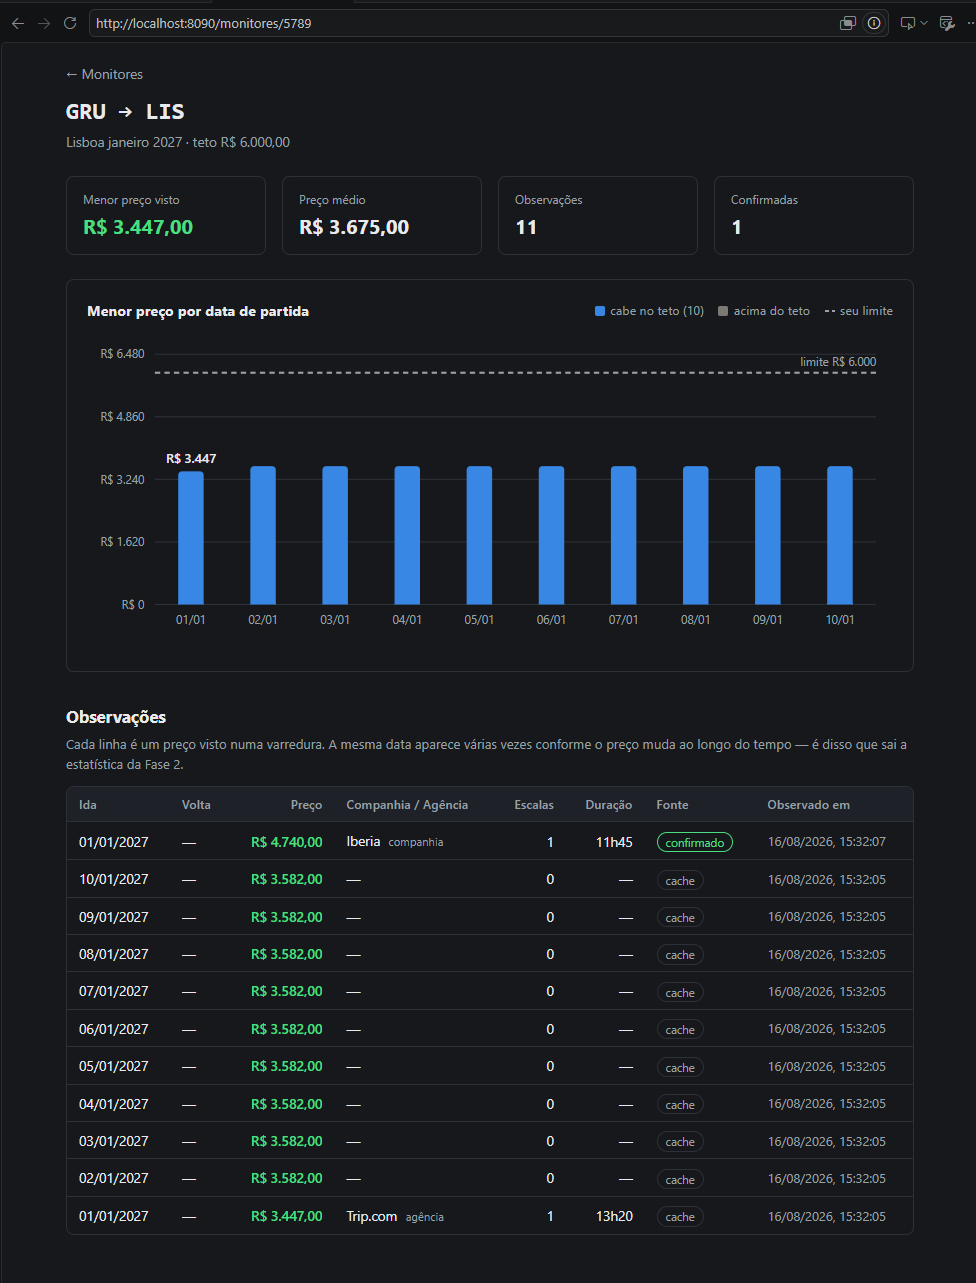
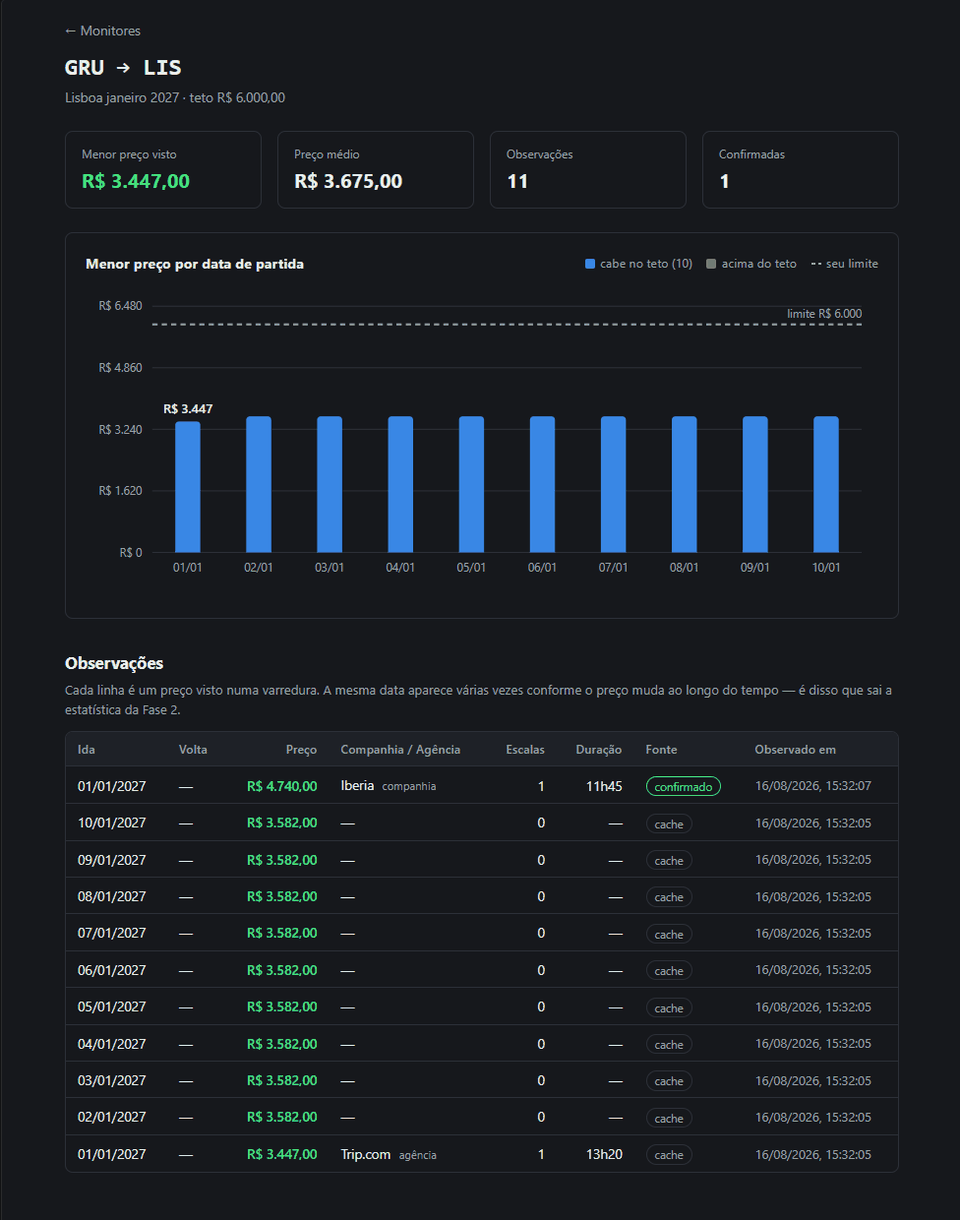
images

diff --git a/README.md b/README.md
@@ -39,17 +39,37 @@ que só aparecem quando o sistema precisa funcionar sozinho, sem ninguém olhand
 
 ## 📸 Demonstração
 
-Um monitor é uma rota, uma janela de datas e um preço-teto:
+Um monitor é uma rota, uma janela de datas e um preço-teto. É tudo o que o sistema precisa para
+começar a vigiar sozinho:
 
-```
-GRU → LIS
-Ida:    entre 10/03/2027 e 20/03/2027
-Volta:  permanência de 10 a 15 dias
-Preço máximo: R$ 3.200
-Escalas máximas: 1
-```
+![Formulário de cadastro de monitor: apelido "Lisboa janeiro 2027", origem GRU, destino LIS, janela de ida de 01/01/2027 a 10/01/2027, janela de volta de 20/01/2027 a 30/01/2027, preço máximo de R$ 3.000, escalas "qualquer", 1 passageiro e intervalo de 60 minutos entre buscas](images/new-monitor.png)
 
-Quando um voo cabe nesses critérios, chega uma mensagem — no WhatsApp, no e-mail, ou no log:
+> **Cadastro de monitor** — a volta é opcional e aceita duas formas: janela de datas *ou*
+> permanência em dias. O intervalo entre buscas tem **mínimo de 10 minutos**, e o porquê fica
+> escrito ao lado do campo: as fontes são gratuitas e a camada 1 devolve preço em cache, então
+> varrer mais rápido só gasta cota para reler o mesmo dado.
+
+Cada monitor mostra o que fez na última varredura — inclusive quando **não** achou nada:
+
+![Cartão do monitor GRU → LIS após uma busca sob demanda, exibindo "0 observações, 0 abaixo do teto" e "Sem alerta — nenhuma oferta abaixo do teto que se sustentasse", seguido dos quatro motivos do descarte](images/manual-search.png)
+
+> **Busca sob demanda e diagnóstico** — este é o princípio de *dizer o que não se sabe* na tela.
+> Em vez de uma lista vazia sem explicação, o sistema enumera os motivos: a fonte respondeu com o
+> código de cidade `SAO` em vez do aeroporto `GRU`, 28 ofertas caíram fora dos critérios, e nenhuma
+> das que sobraram entrou na janela pedida. Silêncio com motivo é diferente de silêncio por falha.
+
+Quando há histórico suficiente, ele vira gráfico e tabela:
+
+![Tela de histórico do monitor GRU → LIS: cartões de menor preço (R$ 3.447), preço médio (R$ 3.675), 11 observações e 1 confirmada; gráfico de barras do menor preço por data de partida com a linha tracejada do teto; e tabela de observações com data, preço, companhia ou agência, escalas, duração, fonte e horário](images/history.png)
+
+> **Histórico do monitor** — o gráfico separa o que **cabe no teto** do que está acima dele, com a
+> linha tracejada do seu limite. Na tabela, cada linha é um preço visto numa varredura, e três
+> colunas carregam decisões de projeto: **Companhia / Agência** distingue quem opera o voo de quem
+> o vende (`Iberia` é companhia, `Trip.com` é agência), **Duração** e **Escalas** só existem quando
+> a fonte informou — traço significa ausente, não zero — e **Fonte** diz se o preço veio do `cache`
+> da camada 1 ou foi `confirmado` na camada 2.
+
+Quando um voo cabe nos critérios, chega uma mensagem — no WhatsApp, no e-mail, ou no log:
 
 ```
 ✈ Oportunidade encontrada
